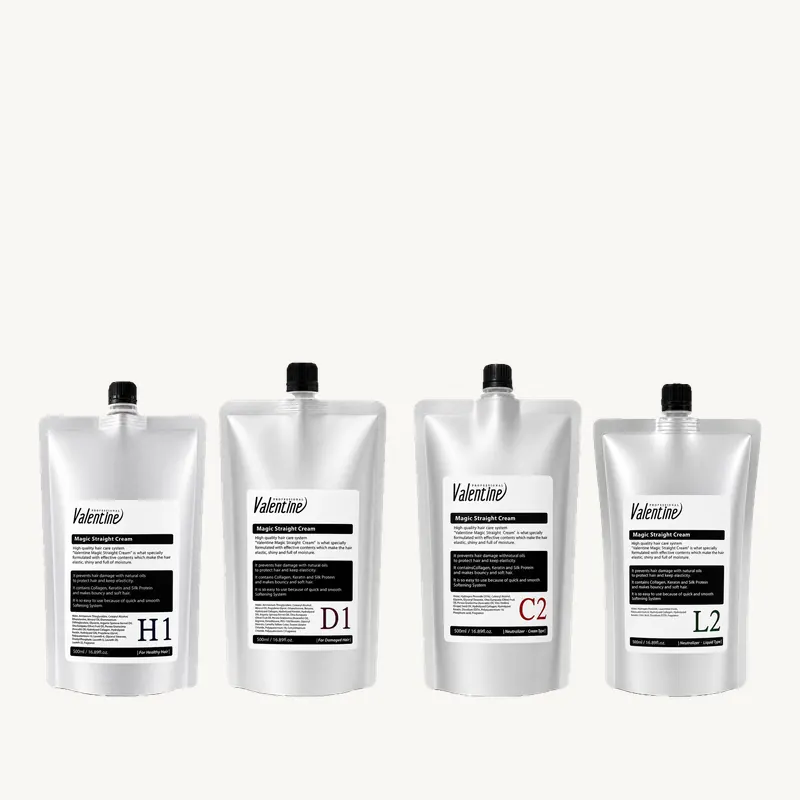
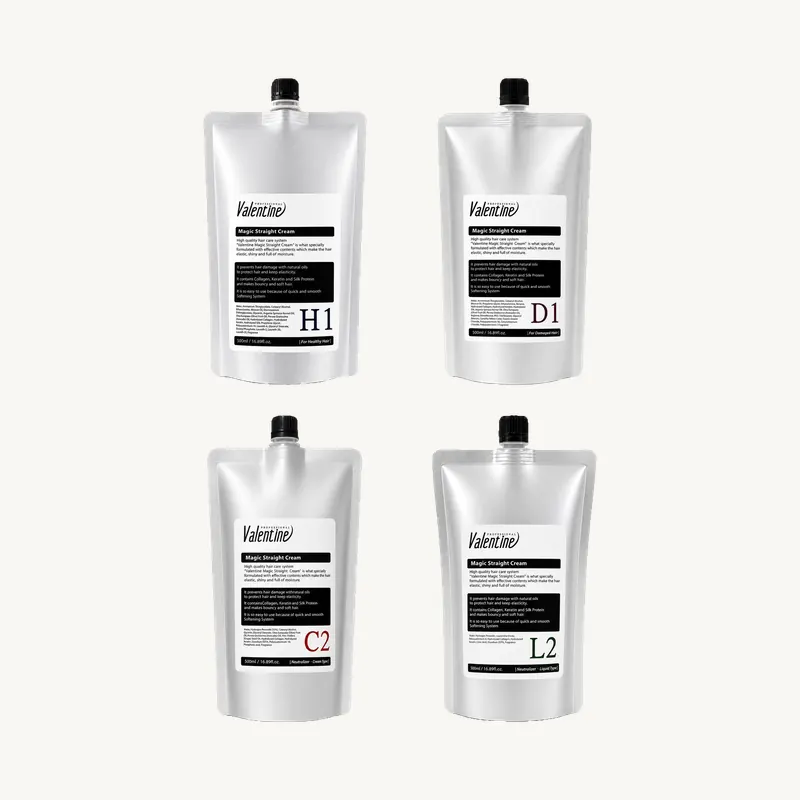
[수정] Valentine 제품 카드·상세 표시 결함 3건 정리
- 목록 카드: 첫 줄과 같은 문장이 보조 줄에 반복되던 문제 수정 (태국어 전 제품, 영어 L.P.P)
- 썸네일: 멀티펌 4파우치를 2x2 수직 중앙 배치로 재생성 (제품 높이 점유 41.8% -> 80.4%, L.P.P 83.1%와 균형)
- 상세 히어로: 모바일에서 STAGE 라벨 좌우 줄 수가 어긋나던 문제 수정 (양쪽 2줄, 데스크톱은 기존 한 줄 유지)
- validate-products: STAGE 라벨 검사를 조각 단위로 갱신 (검사 범위는 4개 라벨로 확대)

Changed region(s): [[0.0312, 0.0938, 0.9688, 0.9062]]

diff --git a/src/components/products/ValentineProductDetail.tsx b/src/components/products/ValentineProductDetail.tsx
@@ -30,7 +30,10 @@ function MagicDetail({ product }: { product: Extract<Product, { detailMode: 'gui
         <p className="mt-3 max-w-md leading-relaxed text-brand-gray-light">เลือก Step 1 ตามสภาพเส้นผม และทำงานต่อด้วย Step 2 หลังล้างขั้นตอนแรก</p>
       </div>
       <div className="border-t border-brand-gold/30 p-3 md:border-l md:border-t-0 md:p-7">
-        <div className="grid grid-cols-2 gap-4 px-4 pt-3 text-center text-[10px] font-bold tracking-[.13em] text-brand-champagne"><span>STAGE 1 · MULTI PERM CREAM</span><span>STAGE 2 · NEUTRALIZER</span></div>
+        <div className="grid grid-cols-2 gap-4 px-4 pt-3 text-center text-[10px] font-bold leading-tight tracking-[.13em] text-brand-champagne">
+          <span><span className="block sm:inline">STAGE 1</span><span className="hidden sm:inline"> · </span><span className="block sm:inline">MULTI PERM CREAM</span></span>
+          <span><span className="block sm:inline">STAGE 2</span><span className="hidden sm:inline"> · </span><span className="block sm:inline">NEUTRALIZER</span></span>
+        </div>
         <img alt="Valentine Professional น้ำยา Multi Perm: H1, D1, C2 และ L2 ใช้ได้ทั้งดัดดิจิตอล ยืดวอลลุ่ม (วอลลุ่มเมจิก) และรีบอนดิ้ง" className="h-auto w-full object-contain" fetchPriority="high" height="1050" src={assetPath(`/products/${product.slug}/hero.webp`)} width="1500" />
       </div>
     </section>

diff --git a/src/components/products/ProductCatalog.tsx b/src/components/products/ProductCatalog.tsx
@@ -16,6 +16,8 @@ function ProductCard({ product, index }: { product: ProductCardData; index: numb
   const comingSoon = product.status === 'coming-soon';
   const isValentine = product.brand === 'valentine';
   const primaryName = isValentine ? cardName(product, locale) : product.nameEn;
+  // 태국어 로케일(및 태국어명=영문명인 제품)에서는 두 줄이 같은 문장이 되므로 보조 줄을 숨긴다.
+  const secondaryName = product.nameTh === primaryName ? null : product.nameTh;
 
   return (
     <ScrollReveal delay={index * 0.05}>
@@ -42,7 +44,7 @@ function ProductCard({ product, index }: { product: ProductCardData; index: numb
           <p className="text-sm font-medium leading-tight text-brand-white md:text-base">
             {primaryName}
           </p>
-          <p className="mt-1 text-xs text-brand-gray">{product.nameTh}</p>
+          {secondaryName && <p className="mt-1 text-xs text-brand-gray">{secondaryName}</p>}
         </div>
       </a>
     </ScrollReveal>

diff --git a/scripts/generate-valentine-assets.py b/scripts/generate-valentine-assets.py
@@ -35,8 +35,10 @@ def magic_assets() -> None:
     for name, box in zip(('h1', 'd1', 'c2', 'l2'), ((70, 160, 300, 760), (380, 160, 300, 760), (820, 160, 300, 760), (1130, 160, 300, 760))):
         paste_fit(canvas, cutout(name), box)
     save(canvas, target / 'hero.webp', quality=80)
+    # 카드 썸네일은 2×2로 세워 제품 덩어리가 캔버스를 세로 81% 채우게 한다(L.P.P 썸네일 83%와 균형).
+    # 상·하 여백을 각각 75px로 같게 두어 수직 중앙에 놓는다.
     thumb = Image.new('RGBA', (800, 800), PAPER)
-    for name, box in zip(('h1', 'd1', 'c2', 'l2'), ((35, 90, 175, 610), (215, 90, 175, 610), (410, 90, 175, 610), (590, 90, 175, 610))):
+    for name, box in zip(('h1', 'd1', 'c2', 'l2'), ((145, 75, 280, 313), (375, 75, 280, 313), (145, 412, 280, 313), (375, 412, 280, 313))):
         paste_fit(thumb, cutout(name), box)
     save(thumb, target / 'thumb.webp', quality=78)
 
